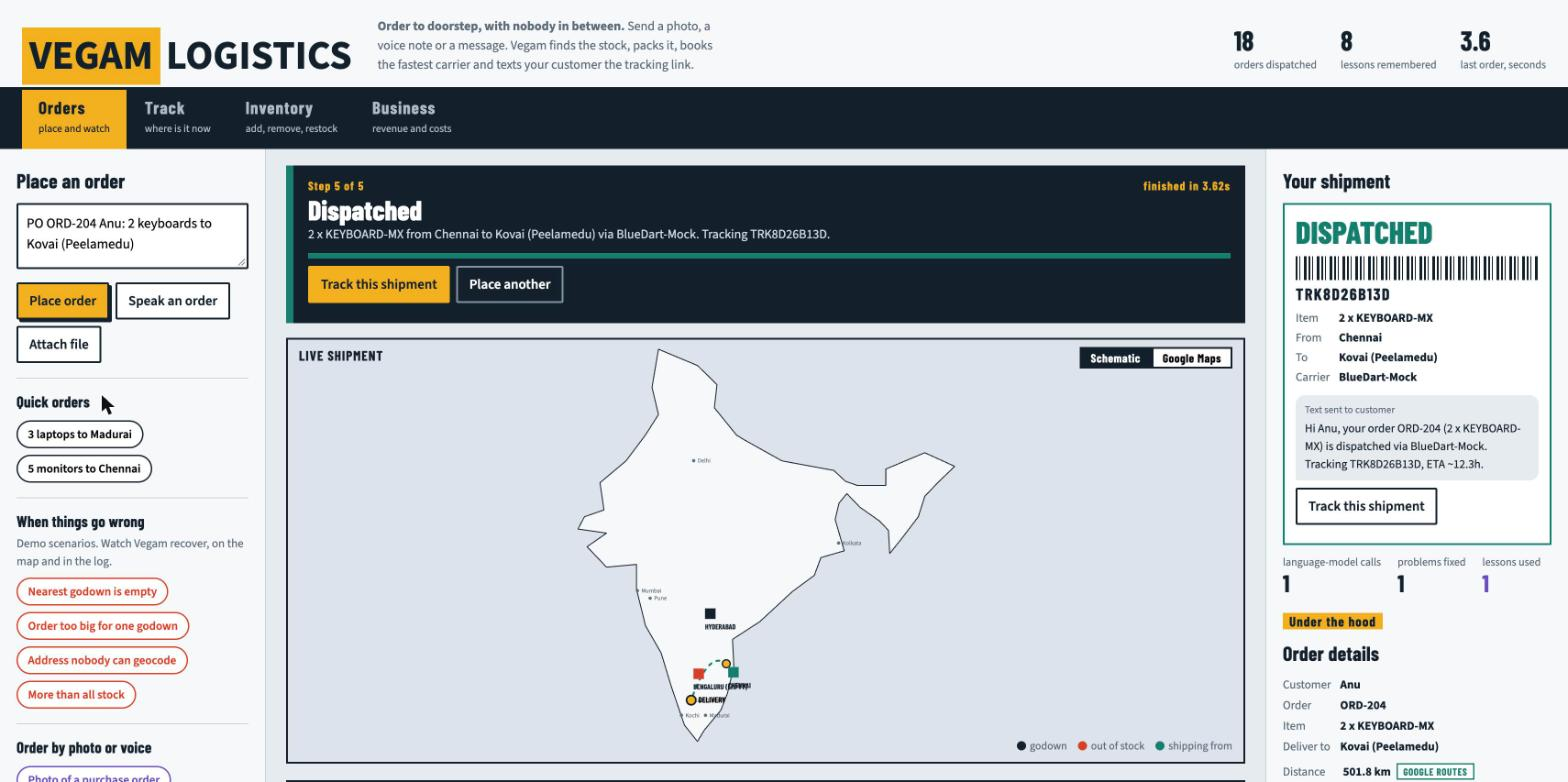
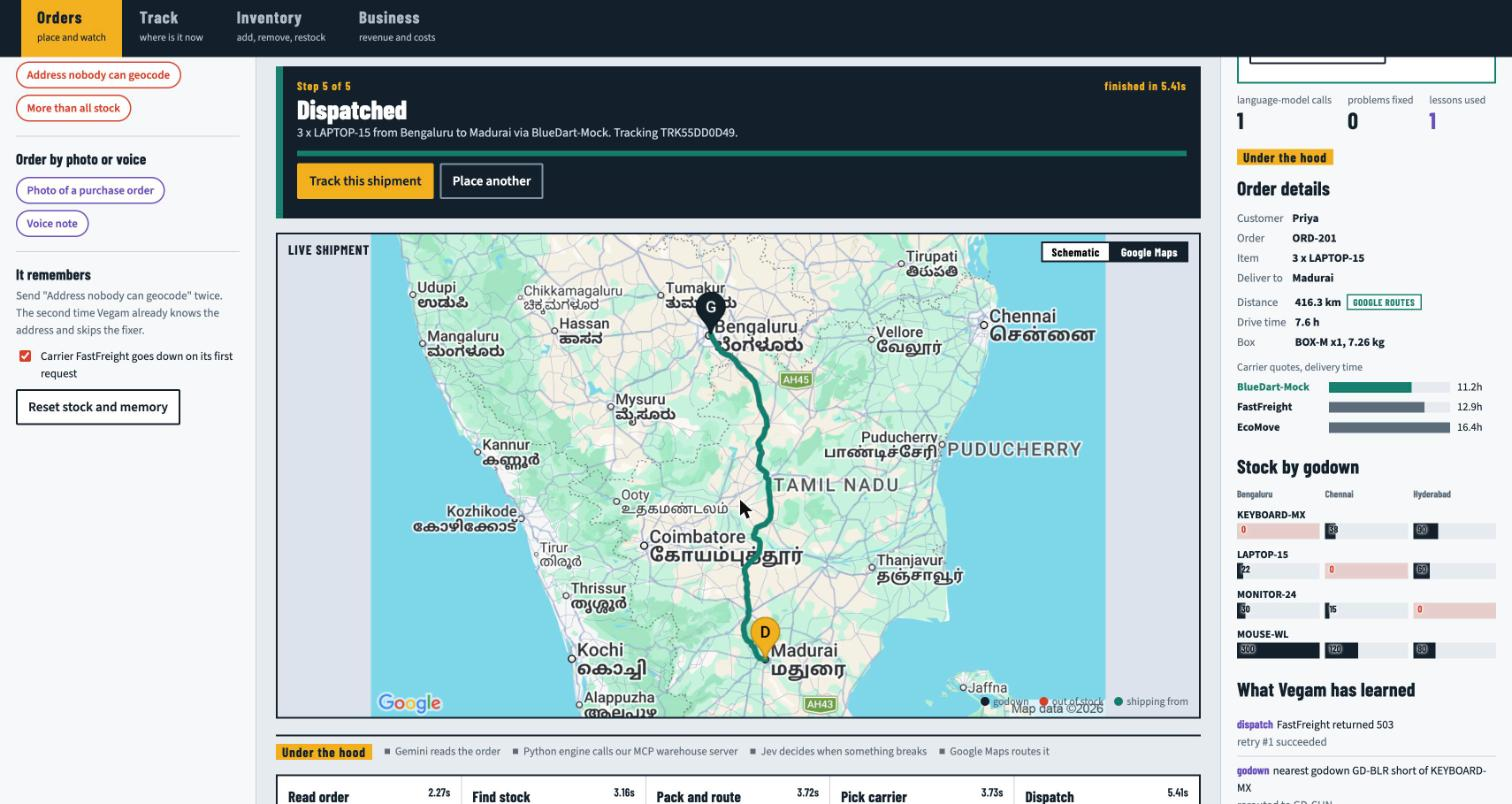
README: Google Maps screenshots, India-only rule, remove limitations section
Claude-Session: https://claude.ai/code/session_017QZ6fJHvtCrD4Sr6mut2mW

diff --git a/README.md b/README.md
@@ -9,9 +9,13 @@ Send an order as a **photo, a voice note or a chat message**. Vegam finds the st
 
 *A real conversation: it says it does not stock mobiles, offers what it has, then ships the follow-up using the details from earlier in the chat.*
 
-![Dashboard: a bad address healed, rerouted to the godown with stock, real Google Routes distance, customer text](docs/orders.jpg)
+![Google Maps route: Bengaluru godown to Madurai by road, real distance from Google Routes, carrier quotes compared](docs/orders.jpg)
 
-*An address nobody can geocode: healed, rerouted to the godown that has stock, routed with Google Routes, dispatched in 3.6 s.*
+*Dispatched in 5.4 s: the Google Maps route from the godown to the customer, real distance and drive time from the Routes API, the three carrier quotes, and the stock that was reserved.*
+
+![Tracking: the truck on the real road, with the status timeline](docs/track.jpg)
+
+*Tracking: the truck moves along the actual road on the Google map while the timeline advances.*
 
 ## How this maps to the judging criteria
 
@@ -25,7 +29,7 @@ Send an order as a **photo, a voice note or a chat message**. Vegam finds the st
 | **A to Z, it must work** | Chat, read order, stock, reserve, pack, route, carrier, dispatch, customer text, tracking with a moving truck, finance, inventory. 11 behaviour evals pass. | `eval_suite.py`, live URL |
 | **Feedback loop, self-healing** | See the next section. Lessons are written **and read back**; a dedicated eval proves run 2 is cheaper than run 1. | "Problems Vegam solved on its own" log and "What Vegam has learned" panel |
 | **Hosted, private repo** | Private GitHub repo, deployed to Google Cloud Run from the included `Dockerfile` and `deploy.sh`. | Link at the top |
-| **Problem statement** | Godown to packaging to shipping, fully automated. Three godowns, box sizes, three carriers, mock stock, prices and customers; Google APIs for locations. | Orders and Business views |
+| **Problem statement** | Godown to packaging to shipping, fully automated. Three godowns, box sizes, three carriers, stock, prices and customers; Google APIs for locations. Business rules enforced in code: electronics only, India only. | Orders and Business views |
 
 ## Technical design
 
@@ -61,6 +65,7 @@ photo | voice | chat ──► Intake agent (Gemini, multimodal, the ONLY LLM st
 **Safety by design: the model may propose, code and people decide.**
 - The intake model has no tools. Its JSON is re-validated (positive whole quantities, bounded sizes, markup stripped) before any tool sees it.
 - Tool arguments are validated again server-side (negative or huge quantities, SKU format, text cleaning).
+- **India-only delivery** is enforced in code: every destination is geocoded and the country Google resolves it to must be India (coordinates are reverse-geocoded), so Paris, London, Colombo or `40.7128, -74.0060` are refused with the reason, and the shipment tool checks again before creating a record.
 - **Electronics-only policy** is enforced inside the tools, not just the prompt: a deny list, an allow list, then a Jev classification that fails closed. "Add rats", "add puppies", "rename the mouse to rats" are all refused.
 - The inventory agent can only **queue** destructive actions (delete a product, remove more than 25 units). A person must click Confirm. Text inside a photo cannot authorise anything.
 - Write endpoints need `ADMIN_TOKEN`; rate limits per client; upload size, type and magic-byte checks; security headers; the map proxy validates its input.
@@ -77,7 +82,7 @@ Deploy: `ADMIN_TOKEN=<secret> ./deploy.sh <gcp-project-id>`
 
 ## Dashboard
 
-- **Orders:** chat order desk, live step banner ("Step 2 of 5: Finding stock"), map (schematic or Google), pipeline with the MCP tool behind each step, the problems it solved on its own.
+- **Orders:** chat order desk, Google Maps by default (schematic view available), live step banner ("Step 2 of 5: Finding stock"), map (schematic or Google), pipeline with the MCP tool behind each step, the problems it solved on its own.
 - **Track:** tracking ID lookup, timeline, a truck moving along the route (demo clock: 1 hour of ETA plays out in 5 s), and the original order photo or voice note.
 - **Inventory:** product table, stock bars by godown, the inventory assistant chat, manual forms, and a panel of actions waiting for your confirmation.
 - **Business:** orders, units, revenue, product cost, shipping and packaging cost, profit and margin, units sold per product.
@@ -86,11 +91,3 @@ Deploy: `ADMIN_TOKEN=<secret> ./deploy.sh <gcp-project-id>`
 
 - `eval_suite.py` (11 cases, isolated databases, run in parallel): happy path, nearest-has-stock, reroute when empty, split order, shortfall, bad address, fuzzy product name, flaky carrier, voice, photo, and learns-across-runs. All pass. Evals pin the offline geocoder so address-healing paths stay deterministic.
 - `security_suite.py` (34 adversarial checks against a running server): the first full run passed 31 of 34. Two failures were a real bug (the policy also classified SKU text, wrongly refusing valid SKUs) and one was an over-broad test assertion. Both were fixed afterwards; **the suite has not been rerun on the fixed code**.
-
-## Honest limitations
-
-- Carriers, stock, prices and customers are **mock data**; tracking progress is simulated, not from a real carrier.
-- Orders carry one product type each (a multi-line PO would need a list of items).
-- On Cloud Run the SQLite database and uploads live inside the container, so they reset when it restarts. Fine for a demo, not for production.
-- Microphone recording works in the browser code but was not exercised end to end by us; voice files and the sample voice note were.
-- Admin actions on the public deployment require the admin token, so judges can use ordering, tracking and the dashboards but not edit inventory.
